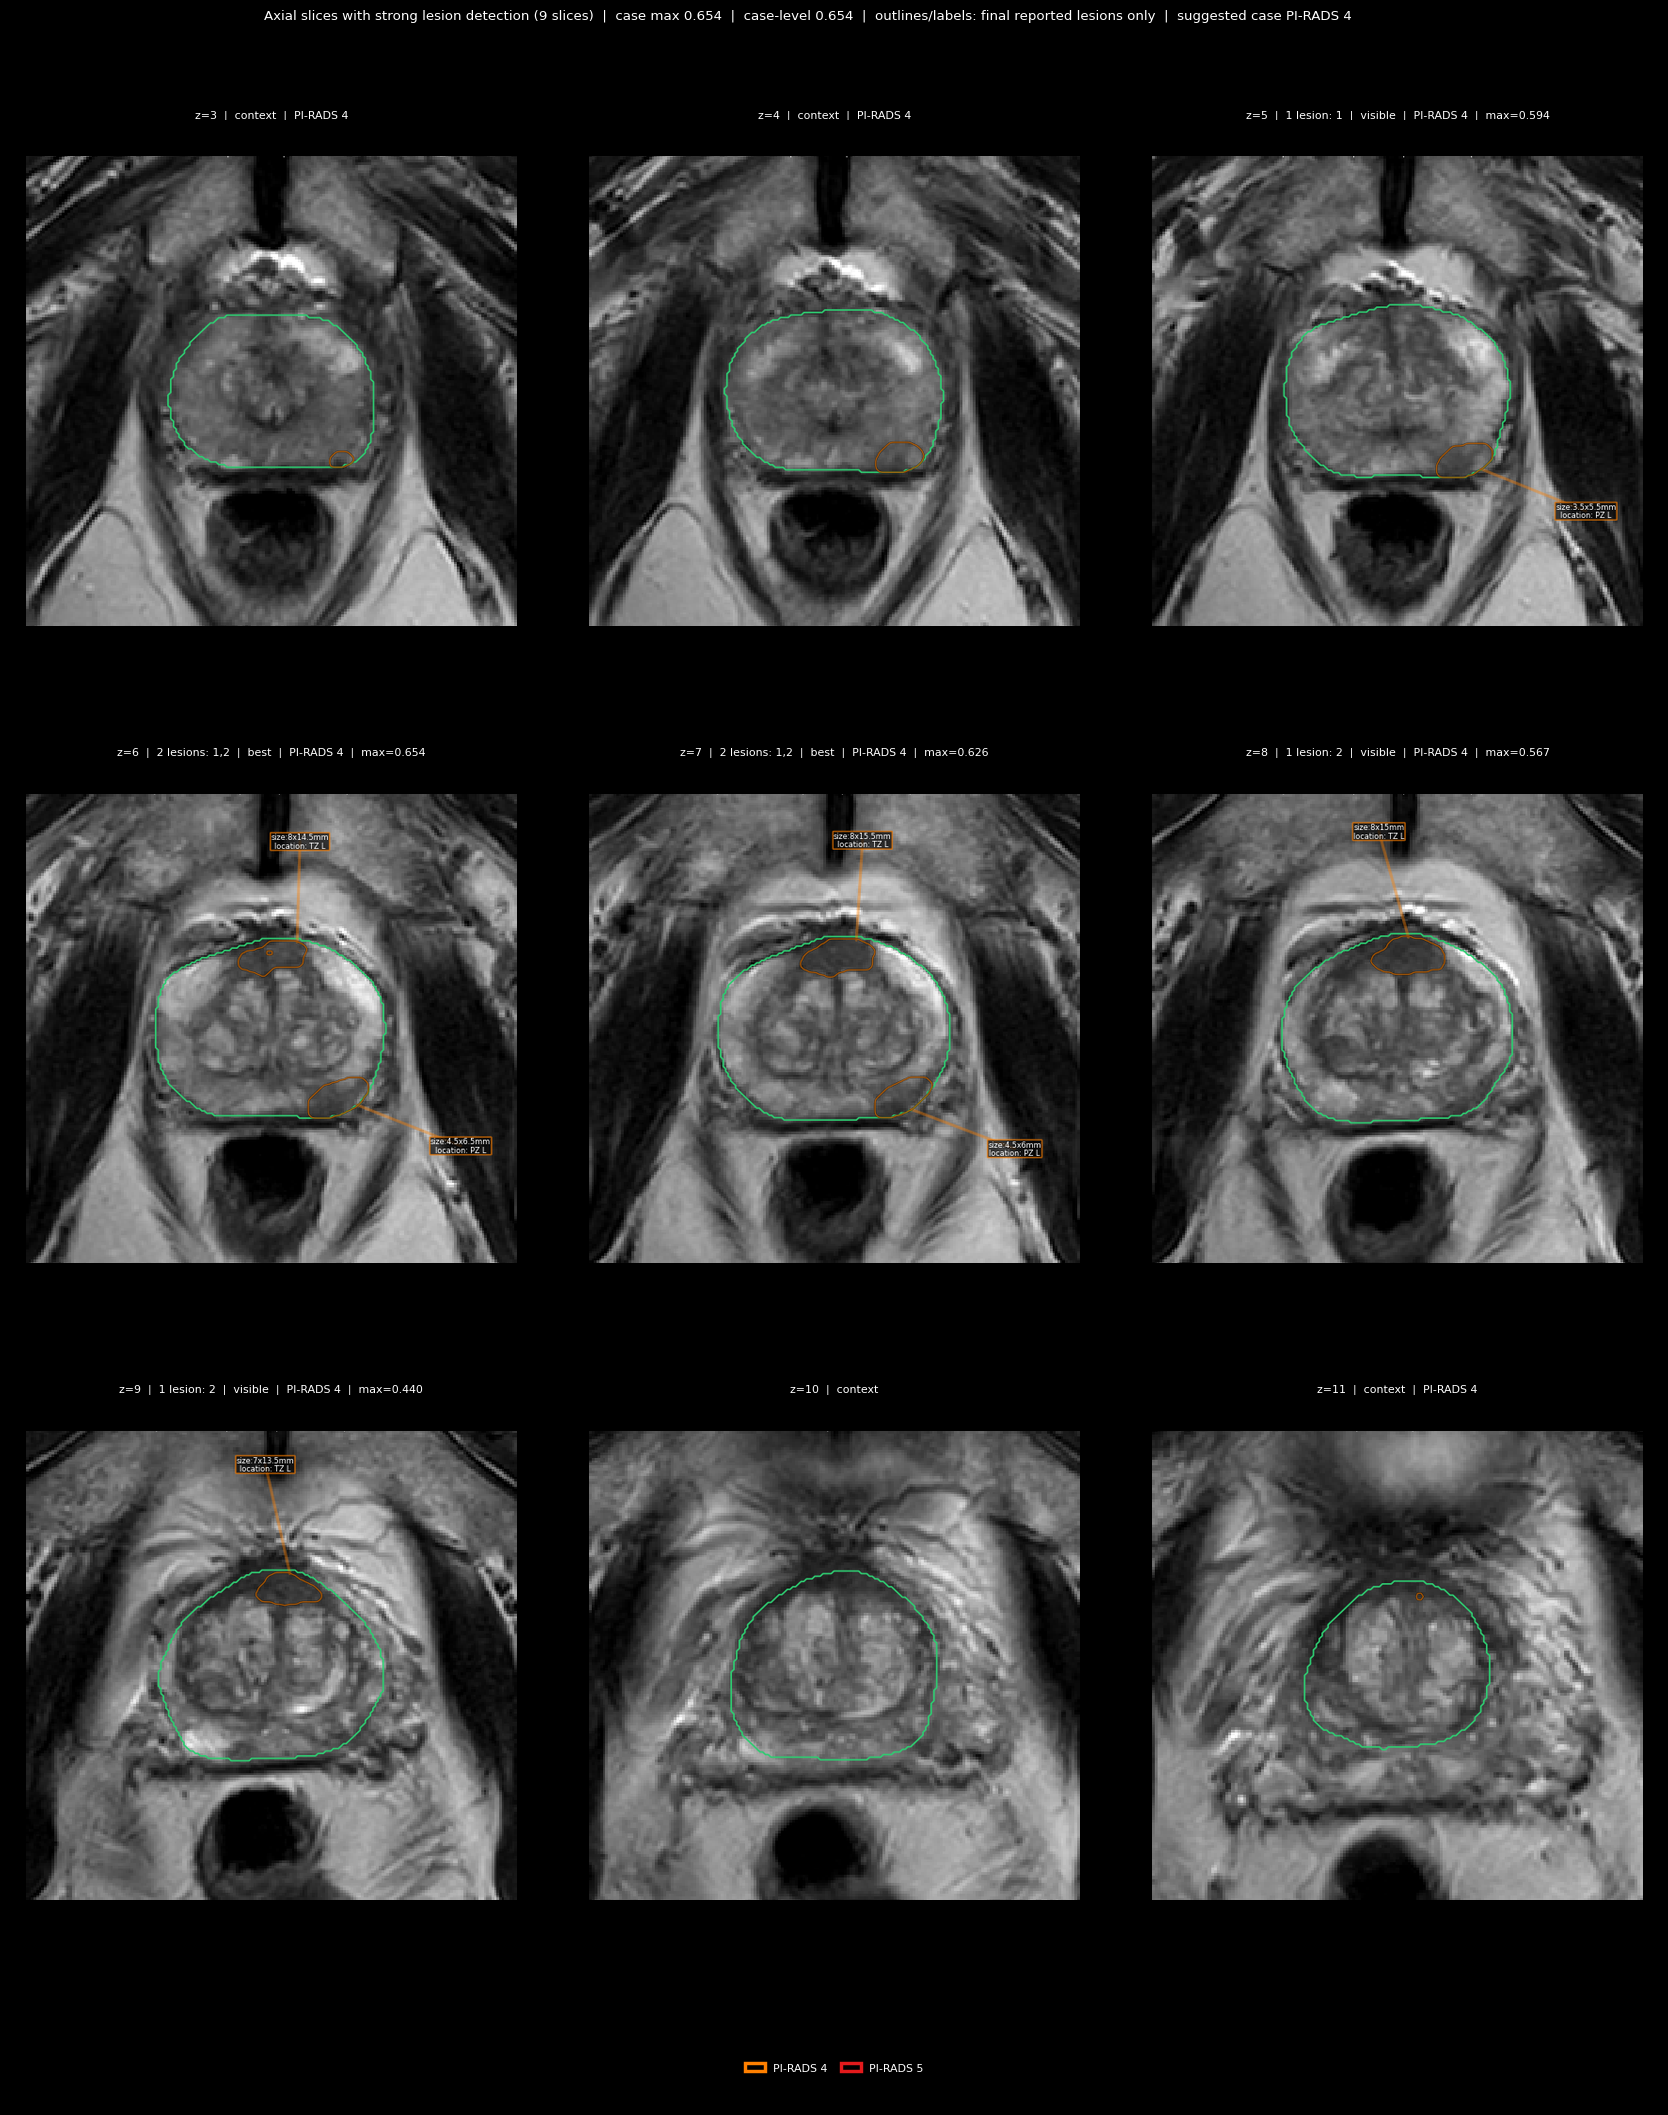
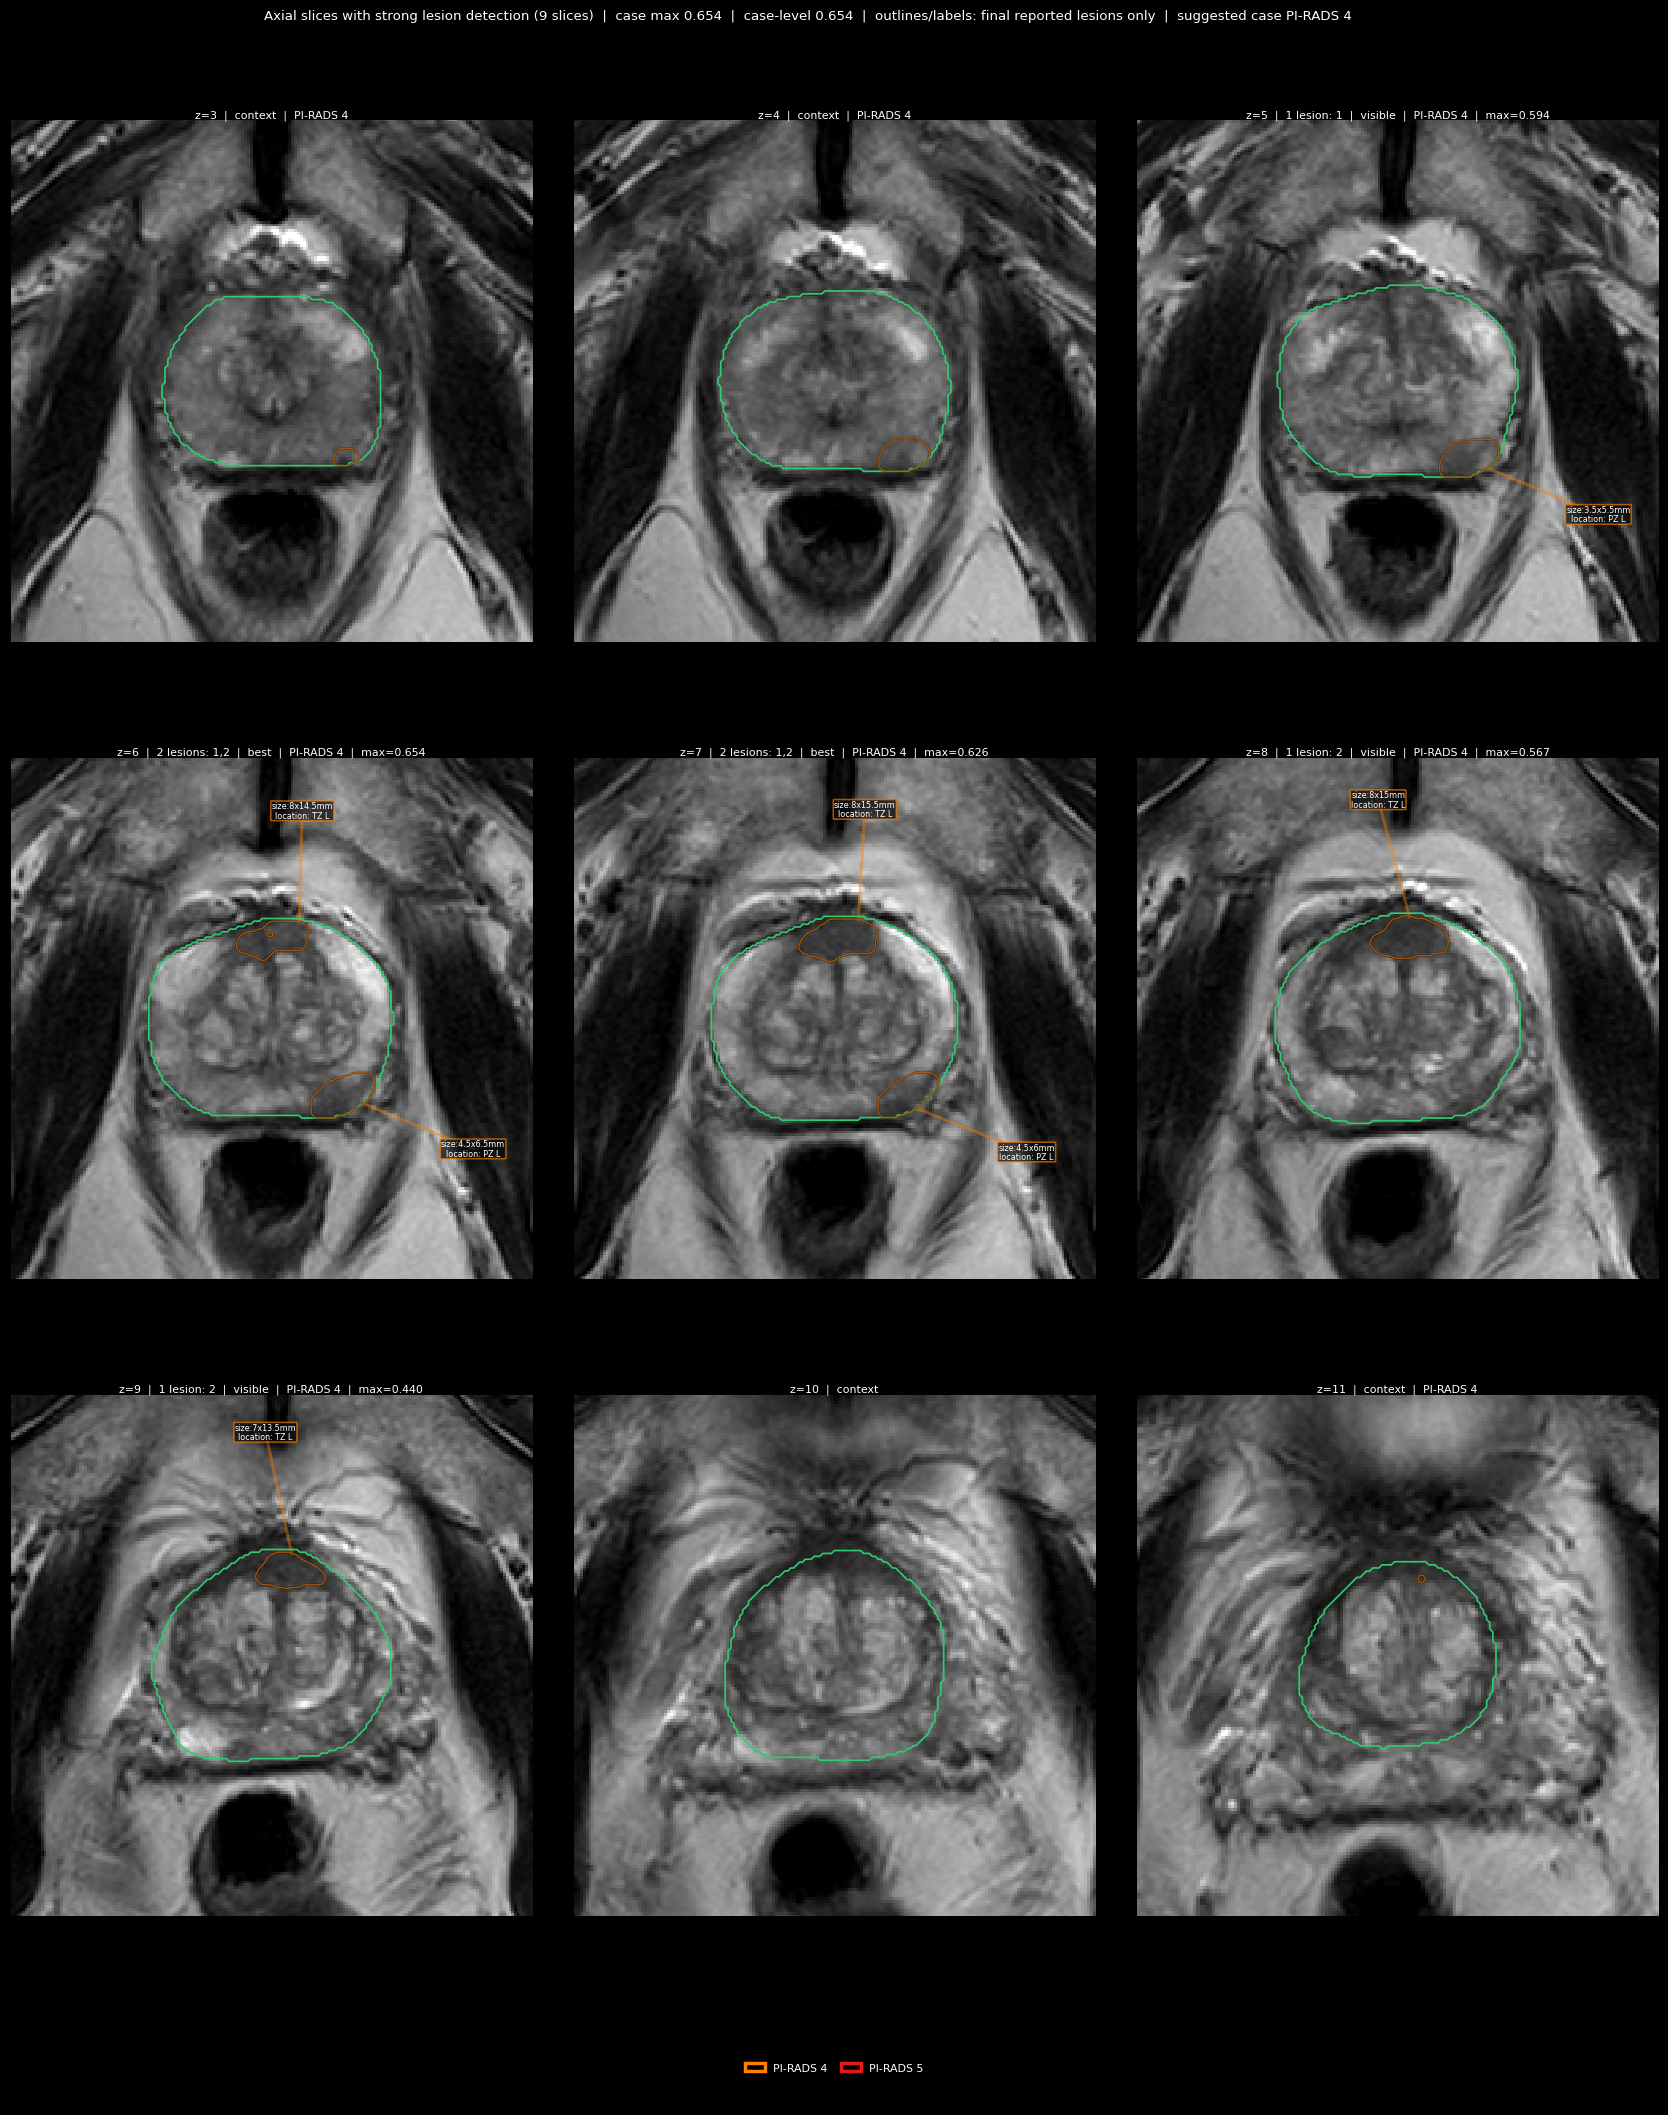
Use 28.07 lesion slices for 07.08 report

diff --git a/src/pages/prostate/model/report-0708.ts b/src/pages/prostate/model/report-0708.ts
@@ -9,11 +9,15 @@ function emptyModelConclusion(): EmptyConclusion {
   return { kind: "empty", description: "" }
 }
 
-/** Изображения из public/prostate/07.08: `new` — Ronix, `old` — RT. */
+/**
+ * Для 07.08 overview-картинки корректные, а `result_lesion_slices.png`
+ * пришли с агрессивным кропом. Для тех же study id используем нормально
+ * сформированные срезы из 28.07, пока 07.08 не будут перегенерированы.
+ */
 function prostate0708Images(variant: "new" | "old", studyId: number): StudyImages {
   return {
     kind: "overview",
-    src: `/prostate/07.08/${variant}/${studyId}/result_lesion_slices.png`,
+    src: `/prostate/28.07/${variant}/${studyId}/result_lesion_slices.png`,
     kineticCurvesSrc: `/prostate/07.08/${variant}/${studyId}/result_overview.png`,
   }
 }
